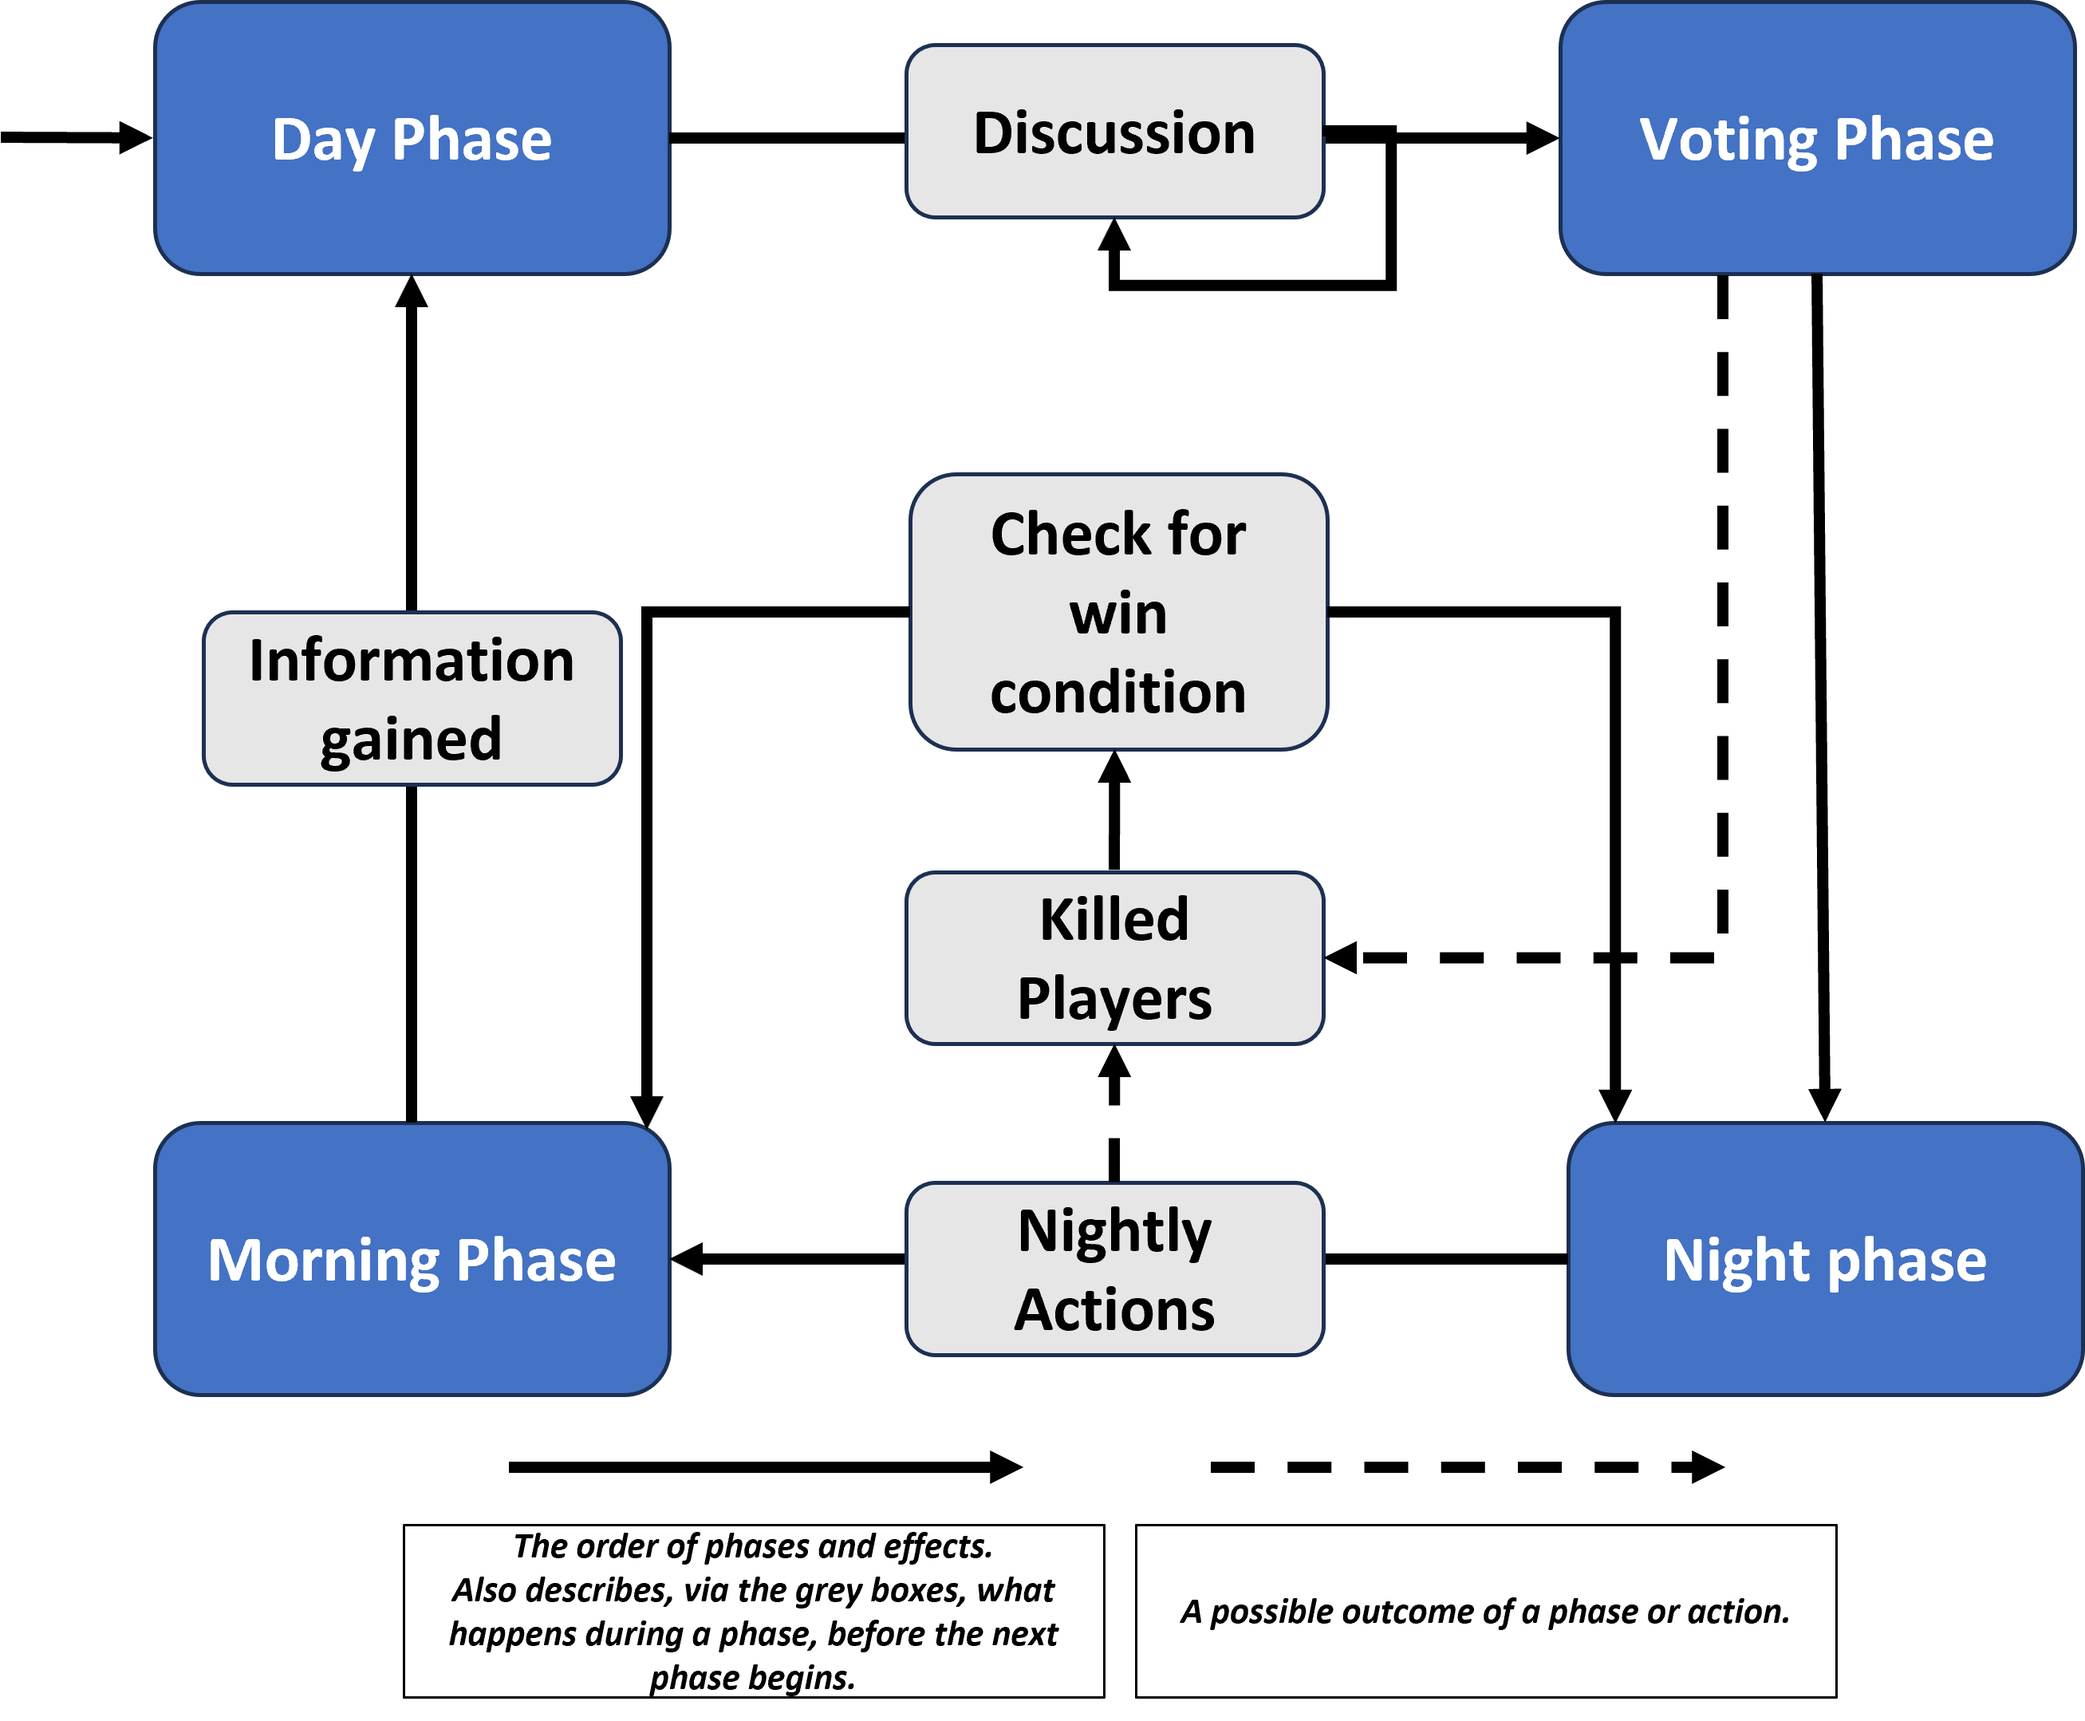
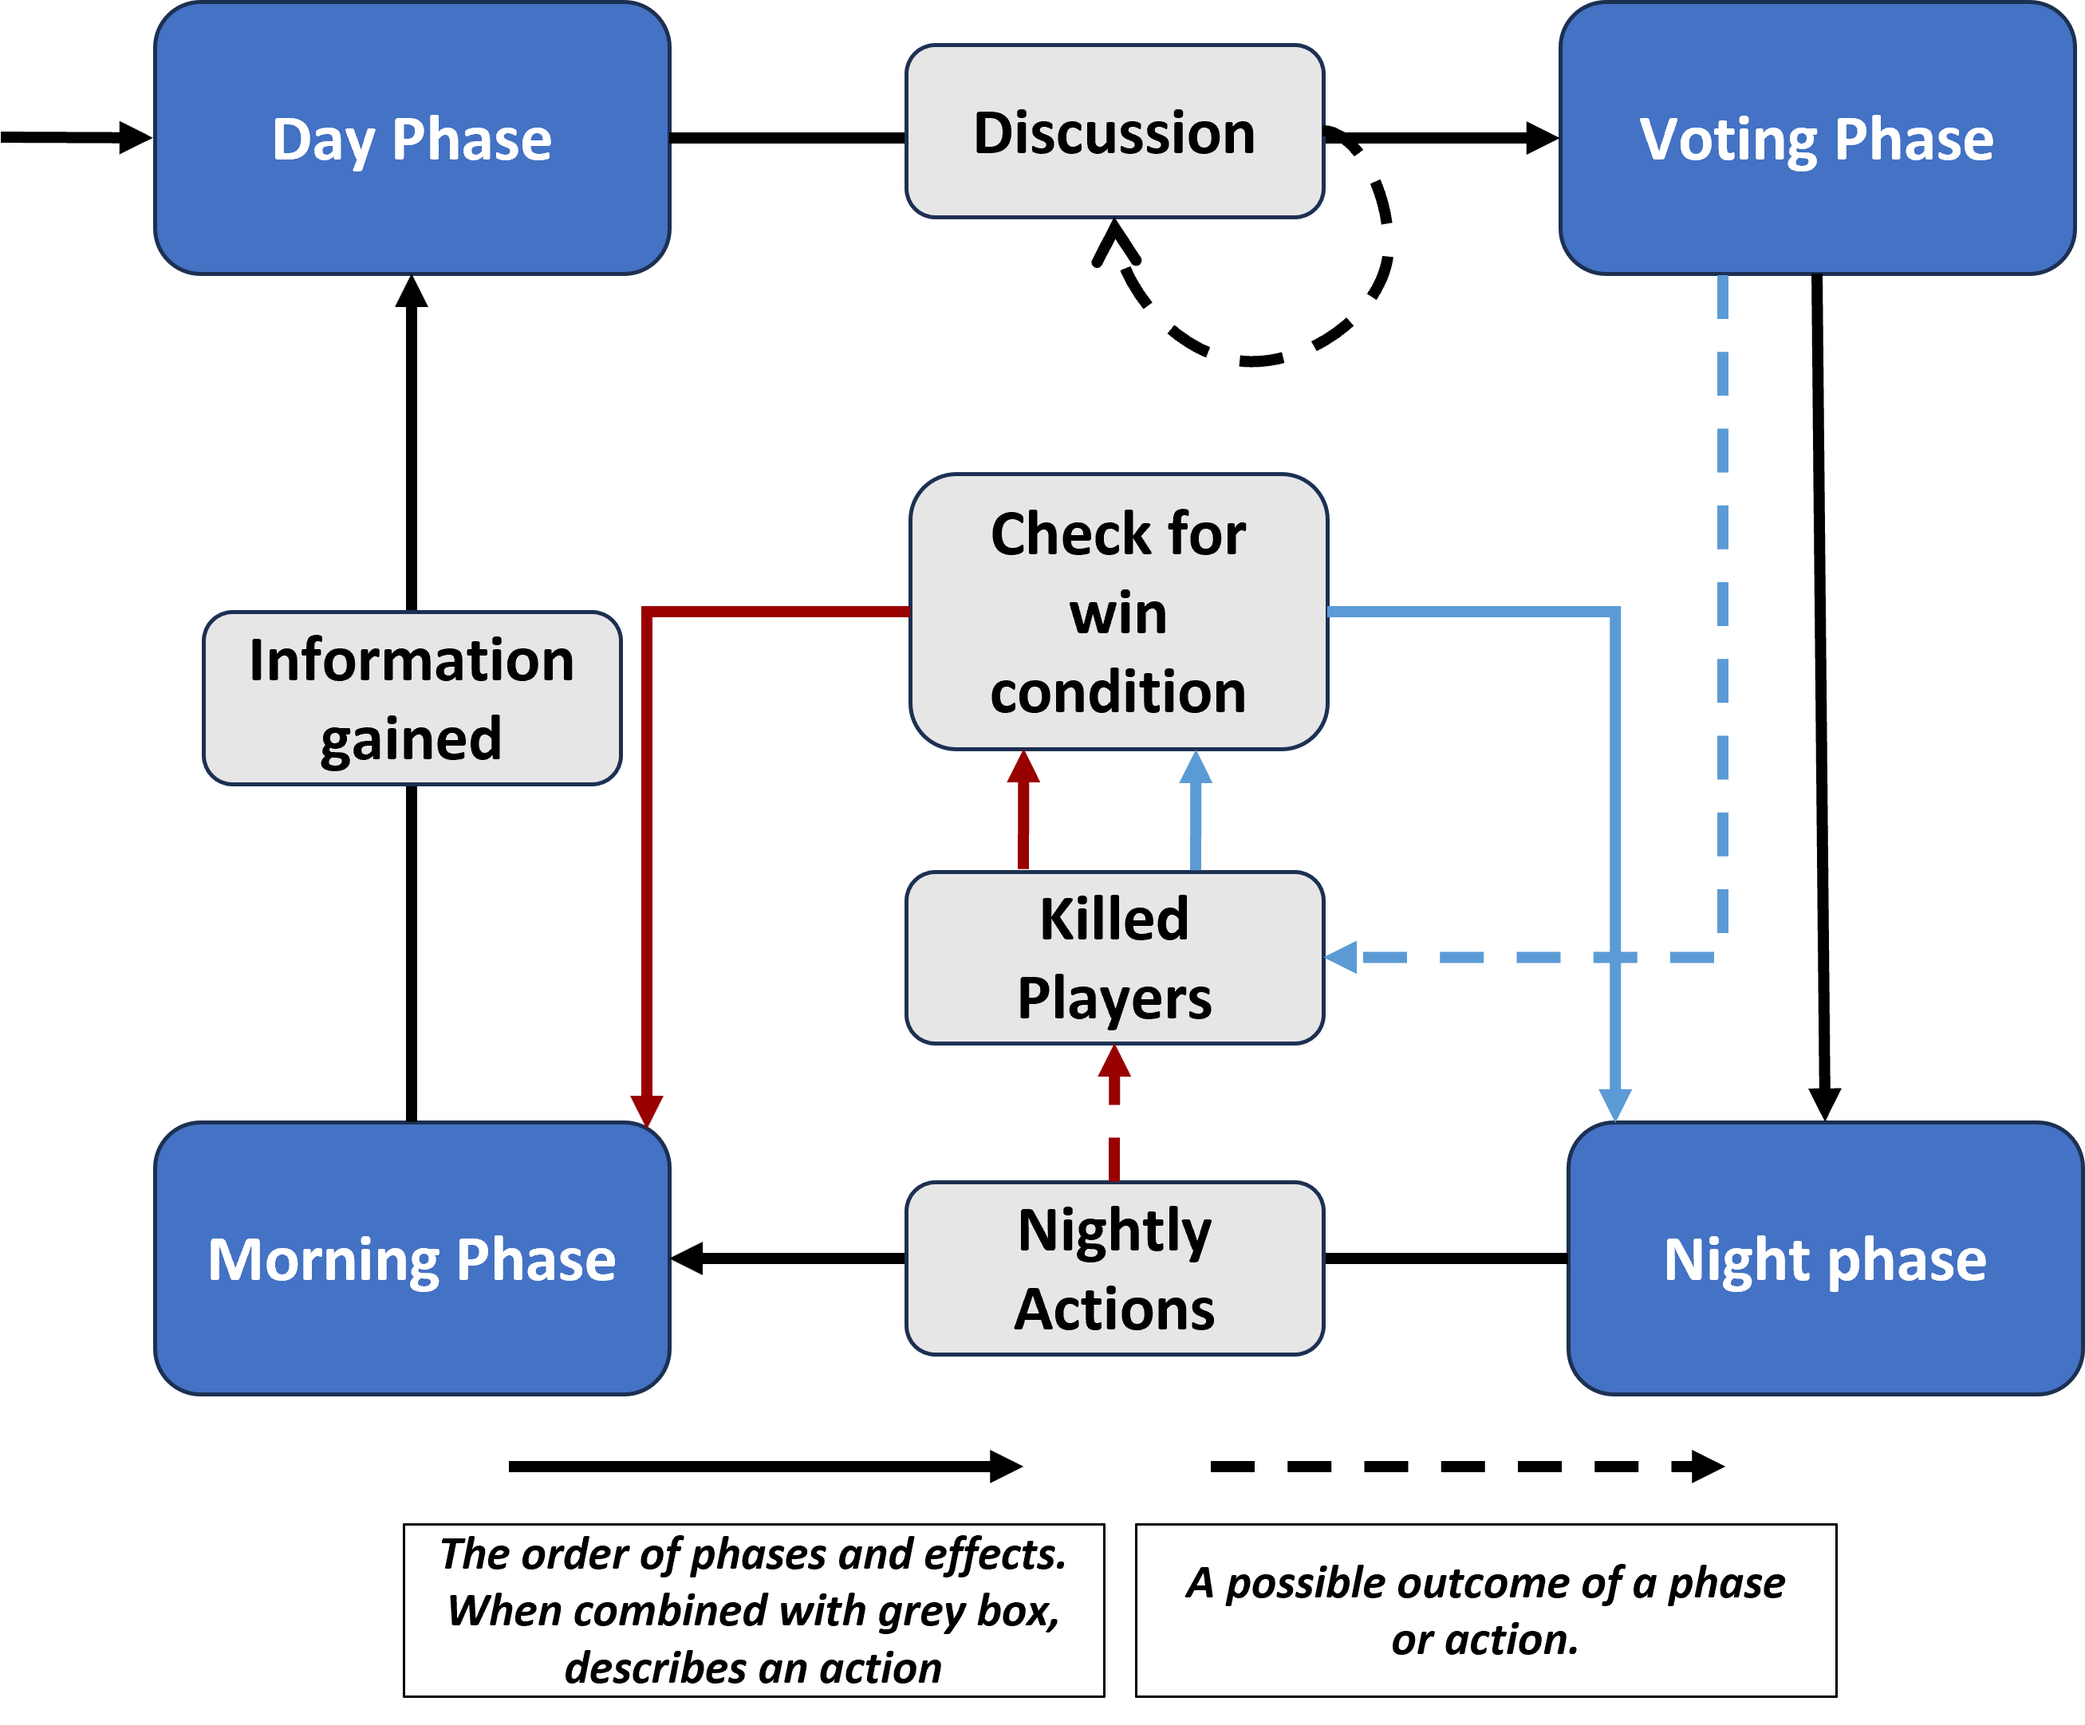
Den kan ikke blive større :(

diff --git a/sections/implementation.tex b/sections/implementation.tex
@@ -37,7 +37,7 @@ marks, it implies that many agents have lied if this is the true world. It is
 also important to remember, that we keep track of who contributed to each mark
 in a given world. This will be explained further in the following sections.
 \subsection{Updating Knowledge}\label{UpdatingKnowledge}
-When a new fact is revealed, such as when a agent dies and their role is
+When a new fact is revealed, such as when an agent dies and their role is
 revealed, all agents will immediately exclude all possible-worlds in which the
 dead agent is anything other than their revealed role. This is essentially the
 model update defined in \cref{eq:5}. An agent dying is the way that most roles

diff --git a/sections/modeling.tex b/sections/modeling.tex
@@ -7,7 +7,7 @@ their factions have the non-strict numerical majority of players. The game is
 played out in rounds consisting of four phases, which happen in order, until
 either win-condition is met, as shown on figure \ref{fig:GameOverview}.
 \begin{figure}[H]
-	\includegraphics[width=1\linewidth]{figures/Game_overview}
+	\includegraphics[width=1\linewidth]{figures/Game_overview3}
 	\caption{Depicting the general flow of social deduction games. The blue arrows relate to the outcome of the voting phase. The red arrows relate to the outcome of the nightly actions}
 	\label{fig:GameOverview}
 \end{figure}
